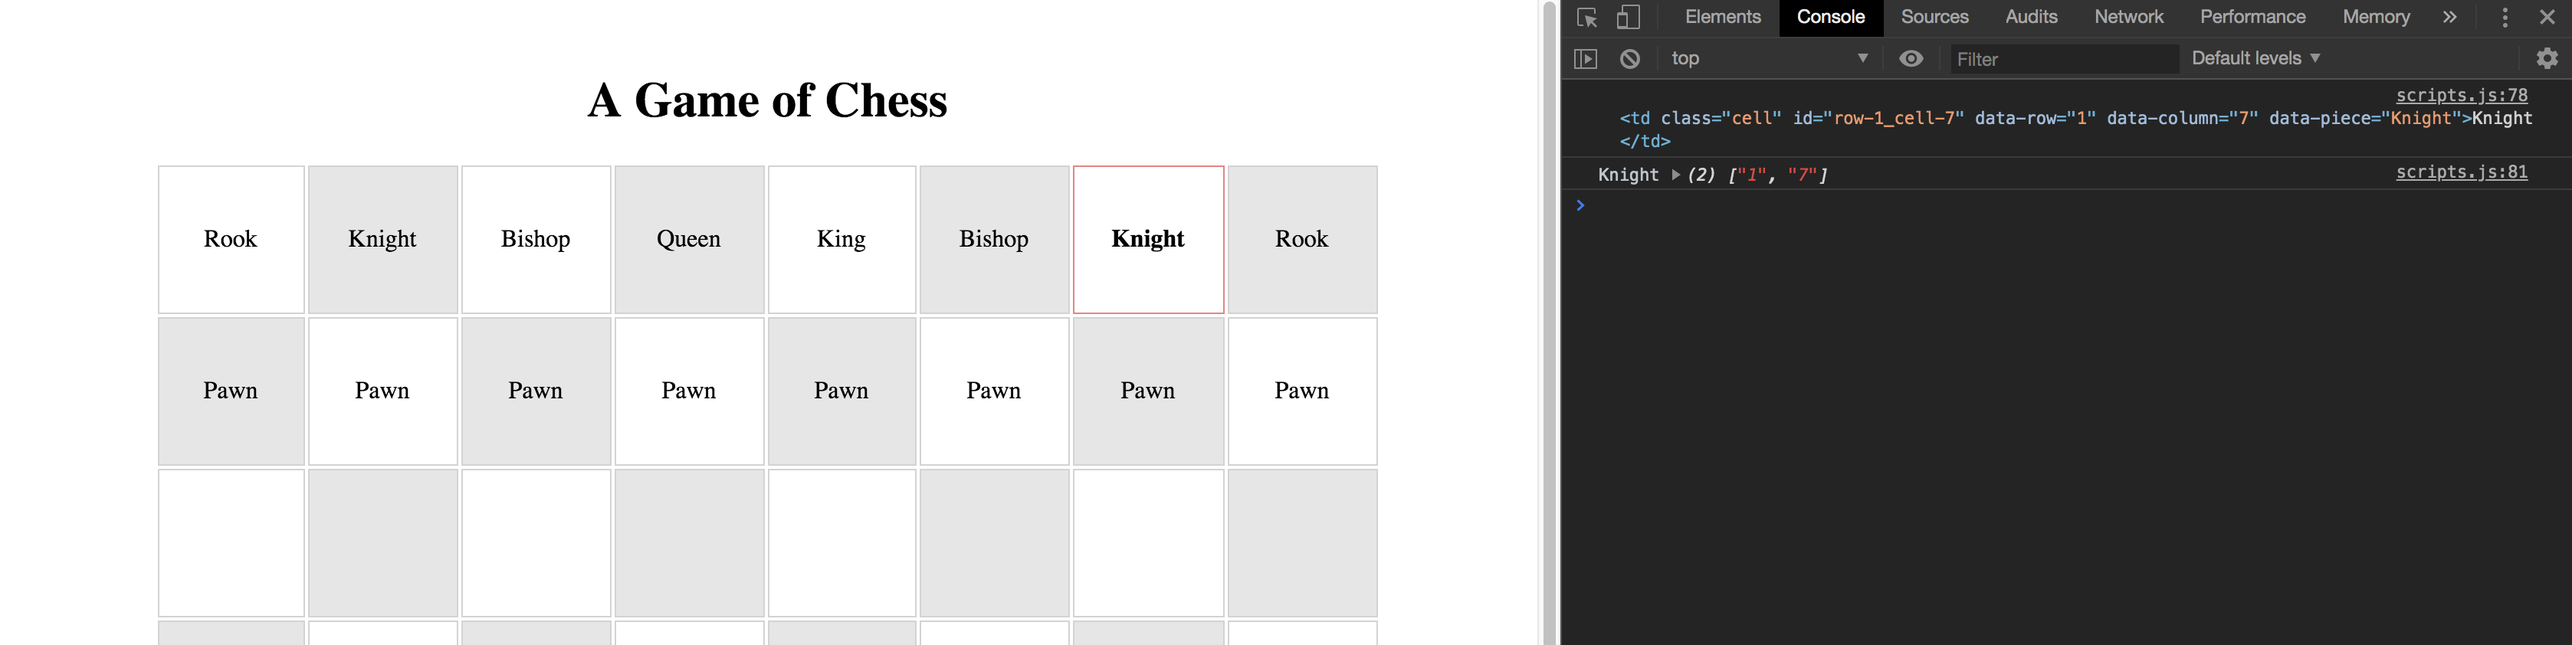
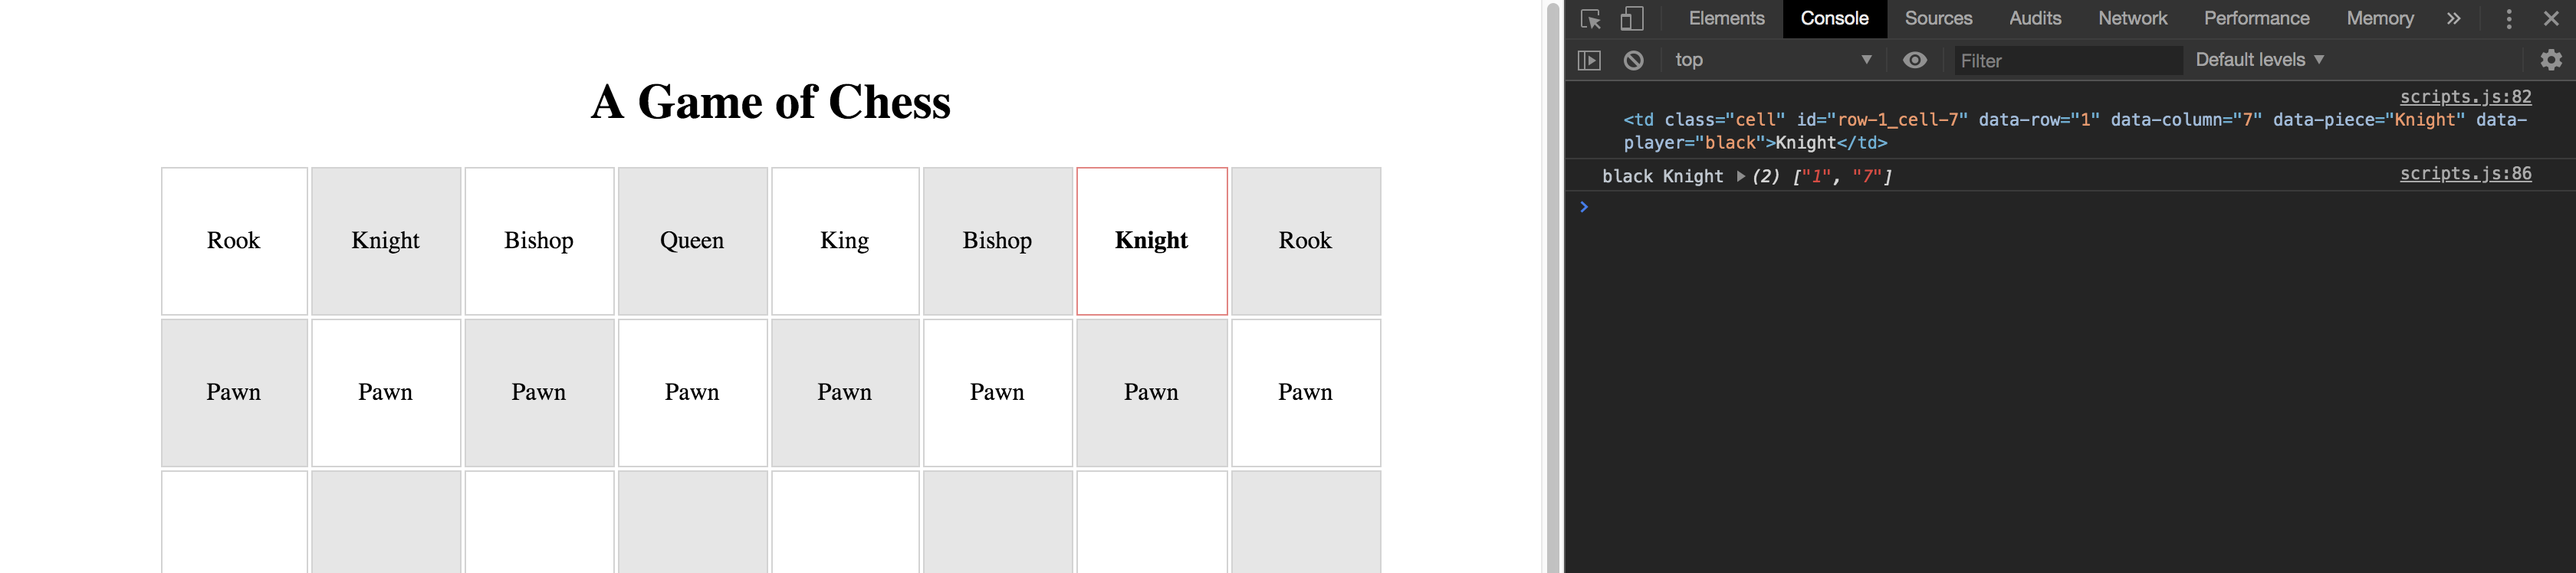
add data-player attribute

diff --git a/scripts.js b/scripts.js
@@ -40,12 +40,14 @@
 	for (var piece of blackPlayerKingRow.childNodes) {
 		piece.innerHTML = pieces[b];
 		piece.setAttribute("data-piece", pieces[b]);
+		piece.setAttribute("data-player", "black");
 		b++;
 	}
 	// Create our Pawns
 	for (var pawn of blackPlayerPawnRow.childNodes) {
 		pawn.innerHTML = "Pawn";
 		pawn.setAttribute("data-piece", "Pawn");
+		pawn.setAttribute("data-player", "black");
 	}
 
 	// Get White Player's rows
@@ -56,12 +58,14 @@
 	for (var piece of whitePlayerKingRow.childNodes) {
 		piece.innerHTML = pieces[w];
 		piece.setAttribute("data-piece", pieces[w]);
+		piece.setAttribute("data-player", "white");
 		w++;
 	}
 	// Create our Pawns
 	for (var pawn of whitePlayerPawnRow.childNodes) {
 		pawn.innerHTML = "Pawn";
 		pawn.setAttribute("data-piece", "Pawn");
+		pawn.setAttribute("data-player", "white");
 	}
 
 	// Event Listeners
@@ -76,8 +80,9 @@
 		// Log the clicked element in the console
 		var node = event.target;
 		console.log(node);
+		var selectedPlayer = node.getAttribute("data-player");
 		var selectedPiece = node.getAttribute("data-piece");
 		var currentPosition = [node.getAttribute("data-row"), node.getAttribute("data-column")];
-		console.log(selectedPiece, currentPosition);
+		console.log(selectedPlayer, selectedPiece, currentPosition);
 
 	}, false);
